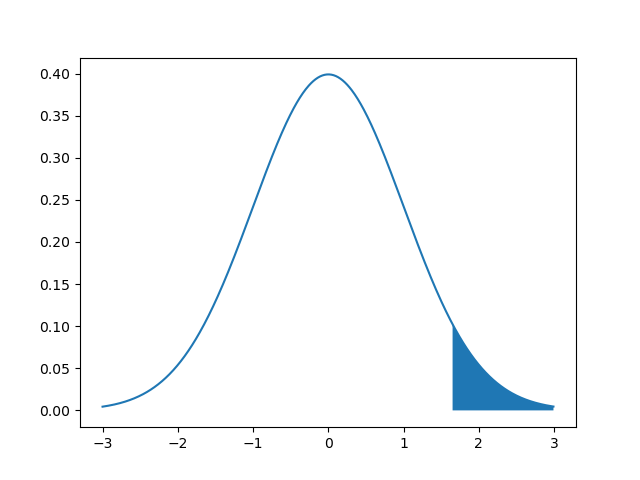
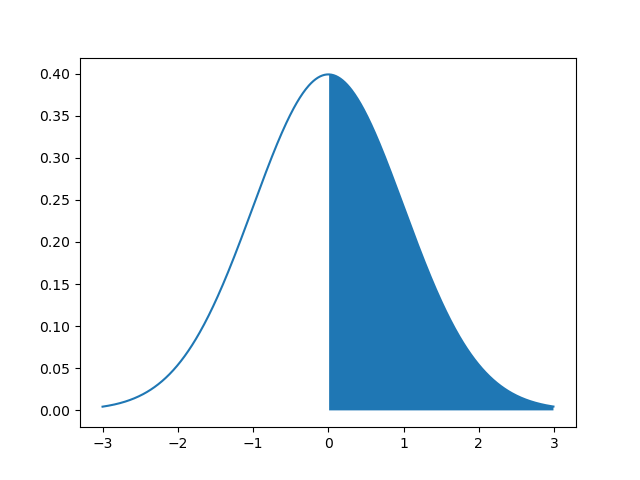
moved the plotting function inside of probability calculation functions

Changed region(s): [[0.5, 0.1562, 0.7188, 0.875]]

diff --git a/main.py b/main.py
@@ -80,14 +80,14 @@ if __name__ == "__main__":
     print(f'PDF   P(x=0) = {std_norm_dist.pdf(0)}')
     print(f'PDF   P(x=1.96) = {std_norm_dist.pdf(1.96)}')
     print(f'CDF   P(x<0) = {std_norm_dist.cdf(0, True)}')
-    print(f'CDF   P(x>0) = {std_norm_dist.cdfr(0)}')
+    print(f'CDF   P(x>0) = {std_norm_dist.cdfr(0, True)}')
     print(f'CDF   P(x<1.645) = {std_norm_dist.cdf(1.645)}')
     print(f'CDF   P(x>1.645) = {std_norm_dist.cdfr(1.645)}')
     print(f'CDF   P(x<1.96) = {std_norm_dist.cdf(1.96)}')
     print(f'CDF   P(x>1.96) = {std_norm_dist.cdfr(1.96)}')
     print(f'CDF   P(x<2.645) = {std_norm_dist.cdfr(2.645)}')
     print(f'CDF   P(x>2.645) = {std_norm_dist.cdfr(2.645)}')
-    print(f'CDF   P(0<x<1.96) = {std_norm_dist.cdfb(0, 1.96)}')
+    print(f'CDF   P(0<x<1.96) = {std_norm_dist.cdfb(0, 1.96, True)}')
     print(f'CDF   P(-1.96<x<1.96) = {std_norm_dist.cdfb(-1.96, 1.96)}')
     print(f'CDF   x where P(X<x) = 0.9750,   x = {std_norm_dist.inv(0.975)}')
     print(f'CDF   x where P(X<x) = 0.0250,   x = {std_norm_dist.inv(0.025)}')
@@ -101,12 +101,4 @@ if __name__ == "__main__":
     print(f'CDF   x where P(-x<X<x) = 0.90,   x = {std_norm_dist.invm(0.90)}')
     print(f'CDF   x where P(-x<X<x) = 0.95,   x = {std_norm_dist.invm(0.95)}')
     print(f'CDF   x where P(-x<X<x) = 0.99,   x = {std_norm_dist.invm(0.99)}')
-    
-    #print(f'CDF   P(x<1.645) = {std_norm_dist.cdf(1.645)}')
-    #std_norm_dist.draw_z_score('<', 1.645)
-    
-    print(f'CDF   P(x>1.645) = {std_norm_dist.cdfr(1.645)}')
-    std_norm_dist.draw_z_score('>', 1.645)
-    
-    print(f'CDF   P(0<x<1.96) = {std_norm_dist.cdfb(0, 1.96)}')
-    std_norm_dist.draw_z_score('><', 0, 1.96)
+

diff --git a/continuous_distributions.py b/continuous_distributions.py
@@ -40,16 +40,22 @@ class normal_dist:
             
         return p_x_cdf
     
-    def cdfr(self, x1):
+    def cdfr(self, x1, draw=False):
         p_x_cdf = self.cdf(x1)
         p_x_cdfr = 1 - p_x_cdf
         
+        if draw==True:
+            self.draw_z_score('>', x1)
+        
         return p_x_cdfr
     
-    def cdfb(self, x1, x2):
+    def cdfb(self, x1, x2, draw=False):
         pdf = lambda x: (1/(2*math.pi*(self.stdev**2))**0.50) * (math.exp(-0.50*((x-self.mean)/self.stdev)**2))
         p_x_cdf = integrate.quad(pdf, x1, x2)
         p_x_cdf = round(p_x_cdf[0], 10)
+        
+        if draw==True:
+            self.draw_z_score('><', x1, x2)
         
         return p_x_cdf
     
